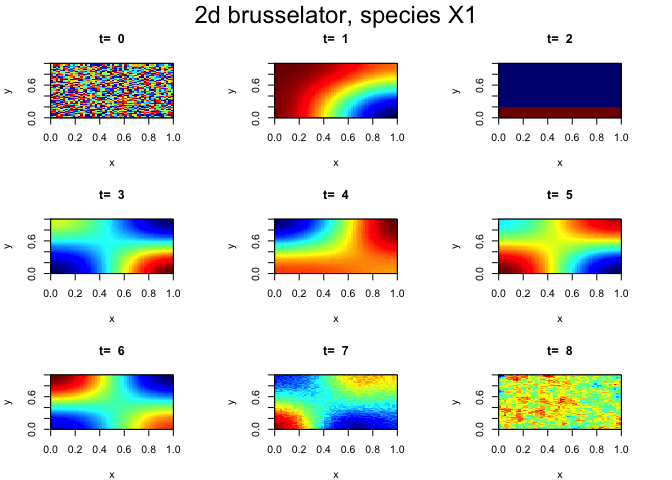
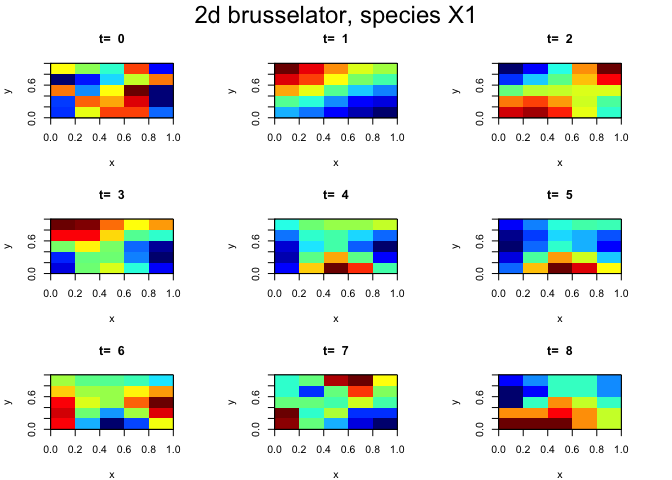
brusselator

diff --git a/pde/brusselator/README.md b/pde/brusselator/README.md
@@ -8,6 +8,7 @@ deSolve Brusselator
 ## brusselator: "Solving Differential Equations in R", 9.3.2, Karline Soetart et al.
 #
 # https://cran.r-project.org/web/packages/diffEq/vignettes/PDEinR.pdf 
+# https://www.rdocumentation.org/packages/deSolve/versions/1.20/topics/ode.2D
 #
 
 brusselator2D <- function(t, y, parms) {
@@ -38,20 +39,24 @@ require(ReacTran)
 ``` r
 require(deSolve)
 
-Nx <- 50
-Ny <- 50
-Gridx <- setup.grid.1D(x.up = 0, x.down = 1, N = Nx)
+Nx <- 5
+Ny <- 5
+Gridx <- setup.grid.1D(x.up = 0, x.down = 1, N = Nx)  
 Gridy <- setup.grid.1D(x.up = 0, x.down = 1, N = Ny)
-D_X1 <- 2
+
+D_X1 <- 2          # two diffusion coefficients that generate interesting patterns
 D_X2 <- 8 * D_X1
 
-X1ini <- matrix(nrow=Nx, ncol=Ny, data=runif(Nx*Ny))
+X1ini <- matrix(nrow=Nx, ncol=Ny, data=runif(Nx*Ny)) # random initial conditions
 X2ini <- matrix(nrow=Nx, ncol=Ny, data=runif(Nx*Ny))
 
 yini <- c(X1ini, X2ini)
 
 times <- 0:8
 
+# lrw = size of the work space
+# nspc = number of modelled components
+#
 print(system.time(
   out <- ode.2D(y=yini, parms=NULL, func=brusselator2D, 
                 nspec=2, dimens=c(Nx, Ny), times=times, 
@@ -60,12 +65,56 @@ print(system.time(
 ```
 
     ##    user  system elapsed 
-    ##   3.542   0.147   3.810
+    ##   0.520   0.024   0.564
 
 ``` r
-par(oma=c(0,0,1,0), mar=rep(4,4))
+# > skim(out)
+# No skim method exists for class deSolvematrix.
+# > summary(out)
+#                   X1           X2
+# Min.        0.001202 1.402000e-04
+# 1st Qu.     0.289200 1.382000e+00
+# Median      0.383800 2.769000e+00
+# Mean        0.773400 2.697000e+00
+# 3rd Qu.     0.703400 4.011000e+00
+# Max.        3.701000 4.719000e+00
+# N       22500.000000 2.250000e+04  22,500 values for x and y
+# sd          1.046993 1.489611e+00
+# > is.array(out)
+# [1] TRUE
+# > is.matrix(out)
+# [1] TRUE
+# > nrow(out)     # one row for each time value
+# [1] 9
+# > ncol(out)     # 50x50 = 2,500 cells for each 'property' 
+#                   = 5,000 + 1 cells per time value (45,009 total)
+# [1] 5001
+# > 
+# > head(out[,1:5])
+#     time         1         2         3         4
+#[1,]    0 0.8071870 0.1053788 0.4744620 0.5969623
+#[2,]    1 0.2790019 0.2790019 0.2790019 0.2790019
+#[3,]    2 0.2891623 0.2891623 0.2891623 0.2891623
+#[4,]    3 0.3105695 0.3105695 0.3105695 0.3105695
+#[5,]    4 0.3399305 0.3399305 0.3399305 0.3399305
+#[6,]    5 0.3837966 0.3837966 0.3837966 0.3837966
+#> 
 
-image(out, which="X1", xlab="x", ylab="y", mfrow = c(3,3), ask=FALSE,
+#out[3, 2500:3000] <- 7
+#out[3, 200:300] <- 3
+#out[3, 400:500] <- 3
+#out[3, 600:700] <- 3
+#out[3, 800:900] <- 3
+#out[3, 1000:2500] <- 3
+
+par(oma=c(0,0,1,0), mar=rep(4,4)) # oma = increase the size of the outer margin
+
+# https://www.rdocumentation.org/packages/deSolve/versions/1.20/topics/plot.deSolve
+
+# for the matrix 'out', the first column represnts time, 
+# the next N columns contain profiles ( [2: (N+1)] )
+# 'which' extracts a 'property' representing solution values for one of the equations (pg 160)
+image(out, which="X2", xlab="x", ylab="y", mfrow = c(3,3), ask=FALSE,
       main=paste("t= ", times),
       grid= list(x=Gridx$x.mid, y=Gridy$x.mid))
 mtext(side=3, outer=TRUE, cex=1.5, line=-1, 

diff --git a/pde/brusselator/brusselator.md b/pde/brusselator/brusselator.md
@@ -39,21 +39,24 @@ require(ReacTran)
 ``` r
 require(deSolve)
 
-Nx <- 50
-Ny <- 50
-Gridx <- setup.grid.1D(x.up = 0, x.down = 1, N = Nx)
+Nx <- 5
+Ny <- 5
+Gridx <- setup.grid.1D(x.up = 0, x.down = 1, N = Nx)  
 Gridy <- setup.grid.1D(x.up = 0, x.down = 1, N = Ny)
-D_X1 <- 2
+
+D_X1 <- 2          # two diffusion coefficients that generate interesting patterns
 D_X2 <- 8 * D_X1
 
-X1ini <- matrix(nrow=Nx, ncol=Ny, data=runif(Nx*Ny))
+X1ini <- matrix(nrow=Nx, ncol=Ny, data=runif(Nx*Ny)) # random initial conditions
 X2ini <- matrix(nrow=Nx, ncol=Ny, data=runif(Nx*Ny))
 
 yini <- c(X1ini, X2ini)
 
 times <- 0:8
 
-
+# lrw = size of the work space
+# nspc = number of modelled components
+#
 print(system.time(
   out <- ode.2D(y=yini, parms=NULL, func=brusselator2D, 
                 nspec=2, dimens=c(Nx, Ny), times=times, 
@@ -62,7 +65,7 @@ print(system.time(
 ```
 
     ##    user  system elapsed 
-    ##   3.659   0.212   3.934
+    ##   0.520   0.024   0.564
 
 ``` r
 # > skim(out)
@@ -83,7 +86,8 @@ print(system.time(
 # [1] TRUE
 # > nrow(out)     # one row for each time value
 # [1] 9
-# > ncol(out)     # 50x50=2,500 cells, plus z data for each = 5,000 + 1 points per time value (45,009 total)
+# > ncol(out)     # 50x50 = 2,500 cells for each 'property' 
+#                   = 5,000 + 1 cells per time value (45,009 total)
 # [1] 5001
 # > 
 # > head(out[,1:5])
@@ -96,16 +100,20 @@ print(system.time(
 #[6,]    5 0.3837966 0.3837966 0.3837966 0.3837966
 #> 
 
-out[3, 2500:3000] <- 7
+#out[3, 2500:3000] <- 7
 #out[3, 200:300] <- 3
 #out[3, 400:500] <- 3
 #out[3, 600:700] <- 3
 #out[3, 800:900] <- 3
 #out[3, 1000:2500] <- 3
 
-par(oma=c(0,0,1,0), mar=rep(4,4))
+par(oma=c(0,0,1,0), mar=rep(4,4)) # oma = increase the size of the outer margin
 
 # https://www.rdocumentation.org/packages/deSolve/versions/1.20/topics/plot.deSolve
+
+# for the matrix 'out', the first column represnts time, 
+# the next N columns contain profiles ( [2: (N+1)] )
+# 'which' extracts a 'property' representing solution values for one of the equations (pg 160)
 image(out, which="X2", xlab="x", ylab="y", mfrow = c(3,3), ask=FALSE,
       main=paste("t= ", times),
       grid= list(x=Gridx$x.mid, y=Gridy$x.mid))
